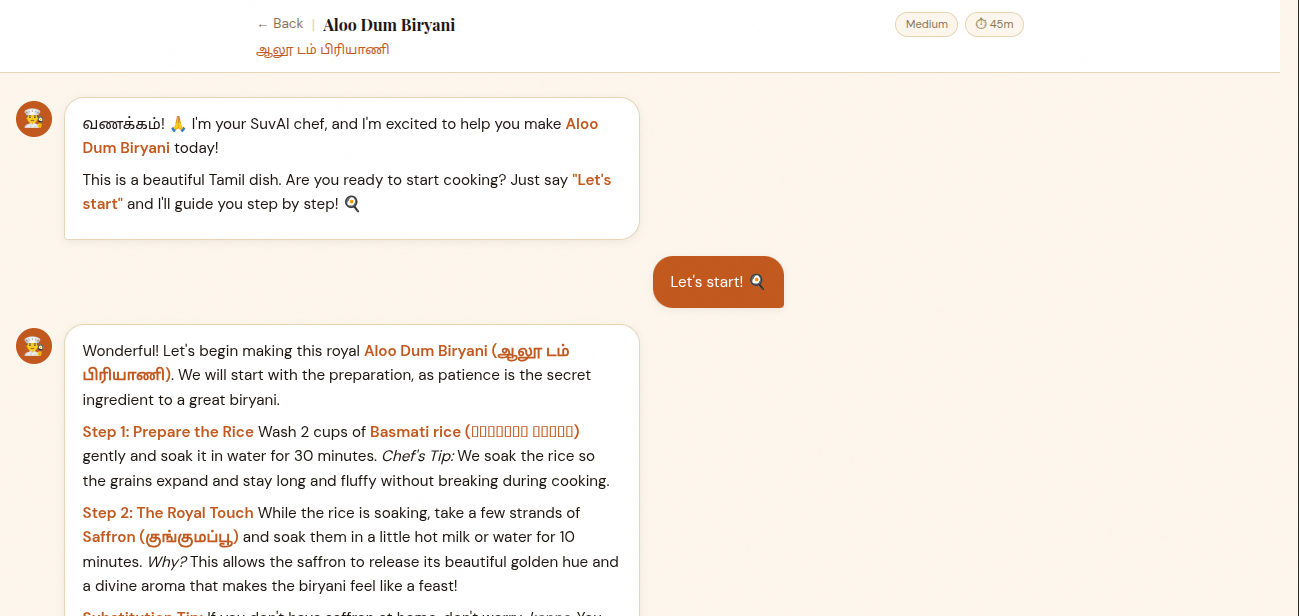
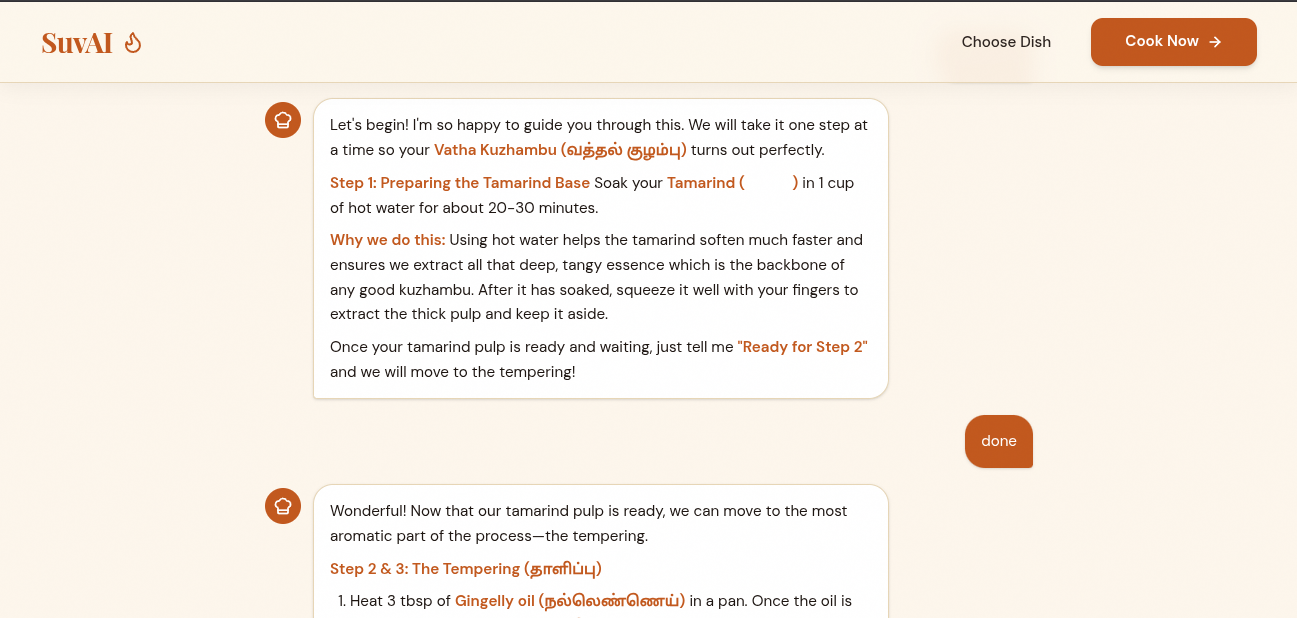
images changed

diff --git a/README.md b/README.md
@@ -35,15 +35,13 @@ Try it: search for *"Masala Dosa"* or enter *"kathirikkai, kothamalli"* in ingre
 ## Screenshots
 
 ### Home Page
-![Home Page](images/screenshots/home1.png)
-![Home Page](images/screenshots/home2.png)
+![Home Page](images/screenshots/home.png)
 
 ### Mode 1 — Choose a Dish
 ![Choose Dish](images/screenshots/choose-dish.png)
 
 ### Mode 2 — Cook With What You Have
-![Cook With Ingredients](images/screenshots/cook-ingredients1.png)
-![Cook With Ingredients](images/screenshots/cook-ingredients2.png)
+![Cook With Ingredients](images/screenshots/cook-ingredients.png)
 
 ### Chat with Suvai
 ![Chef Chat](images/screenshots/chat.png)